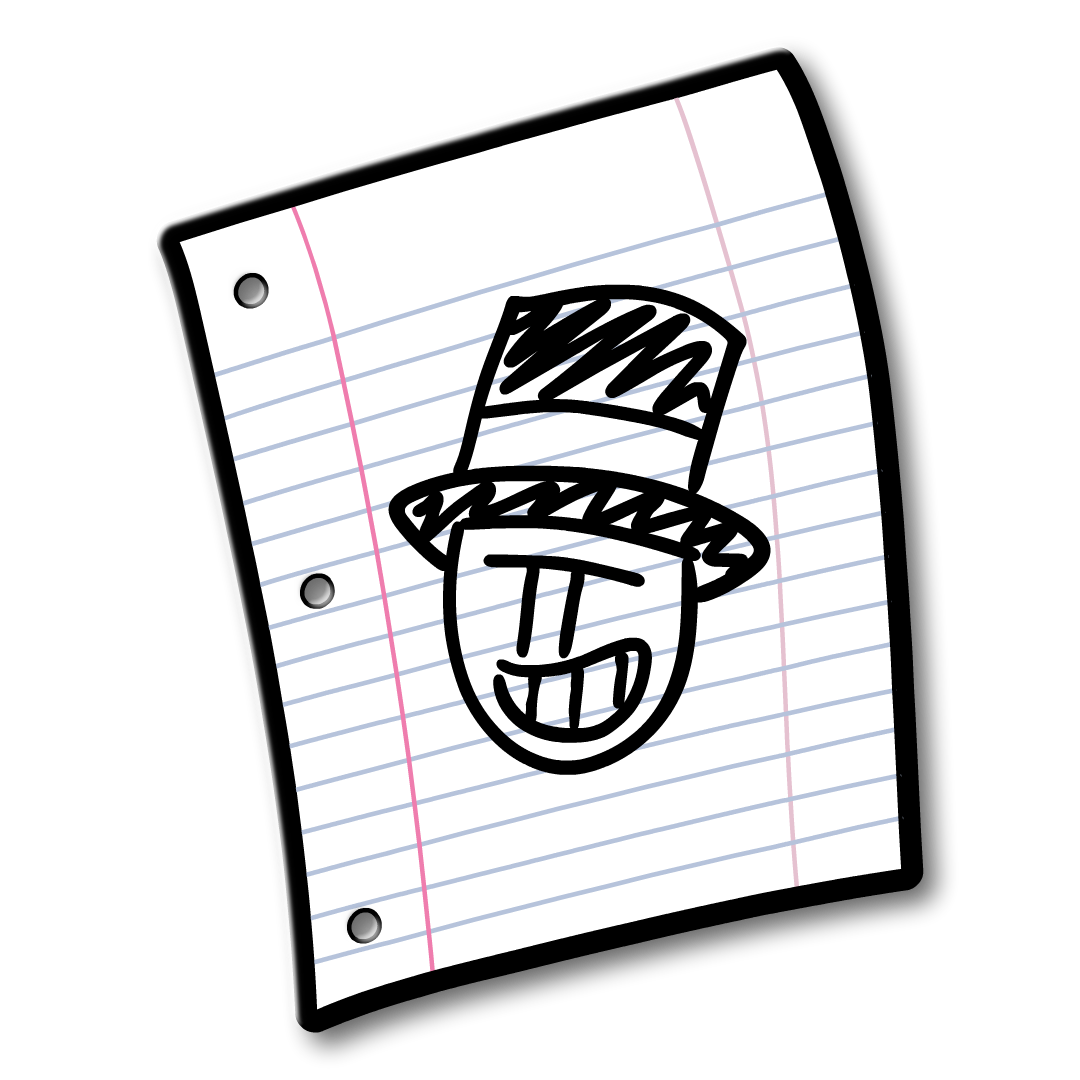
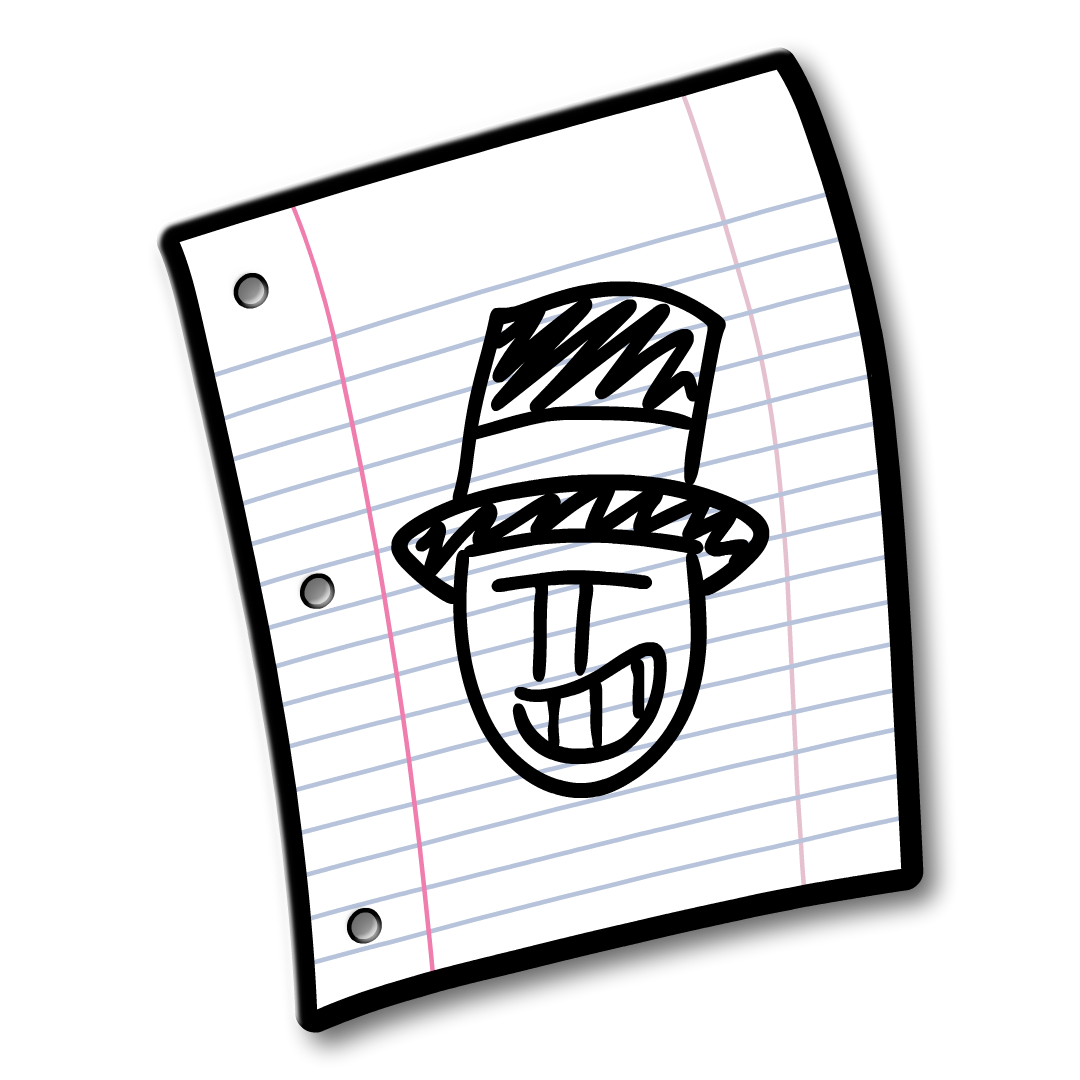
Fix bugs with default project input/previews changing and crashing backend on validation fail

Changed region(s): [[0.3361, 0.1222, 0.7639, 0.825], [0.6111, 0.0917, 0.6417, 0.1222]]

diff --git a/frontend/src/pages/AdminPanel.jsx b/frontend/src/pages/AdminPanel.jsx
@@ -149,7 +149,7 @@ const AdminPanel = () => {
     let file = e.target.files[0];
     if (!file) file = null;
     setProjectInput({...projectInput, gallery: projectInput.gallery.with(index, file)});
-    const galleryPreviews = projectFilePreviews.gallery || [];
+    const galleryPreviews = [...projectFilePreviews.gallery] || [];
     galleryPreviews[index] = file ? URL.createObjectURL(file) : null;
     setProjectFilePreviews({...projectFilePreviews, gallery: galleryPreviews});
   }
@@ -158,15 +158,17 @@ const AdminPanel = () => {
     let file = e.target.files[0];
     if (!file) file = null;
     setProjectInput(prev => {return {...prev, content: prev.content.length > 0 ? prev.content.with(index, file) : [file]}});
-    if (!contentPreviews) contentPreviews = projectFilePreviews.content || [];
-    contentPreviews[index] = file ? URL.createObjectURL(file) : null;
-    setProjectFilePreviews({...projectFilePreviews, content: contentPreviews});
+    setProjectFilePreviews(prev => {
+      if (!contentPreviews) contentPreviews = [...prev.content] || [];
+      contentPreviews[index] = file ? URL.createObjectURL(file) : null;
+      return {...prev, content: contentPreviews};
+    });
     return contentPreviews;
   }
 
   const onMultipleContentUpload = (e, index) => {
     if (e.target.files.length > 1) {
-      let contentPreviews = projectFilePreviews.content || [];
+      let contentPreviews = [...projectFilePreviews.content] || [];
       Object.entries(e.target.files).forEach(([i, file]) => {
         if (i == 0) {
           contentPreviews = onContentUpload(e, index);

diff --git a/backend/routes/projects.js b/backend/routes/projects.js
@@ -53,7 +53,7 @@ router.post("/", auth, formidable(), async (req, res) => {
     newProject.thumbnail = fileURLs.thumbnail;
     newProject.gallery = fileURLs.gallery;
     newProject.content = fileURLs.content;
-    newProject.save();
+    await newProject.save();
     res.status(201).json({Project: newProject});
   } catch (err) {
     console.log(err);
@@ -124,7 +124,7 @@ router.patch("/:id", auth, formidable(), async (req, res) => {
       project.thumbnail = fileURLs.thumbnail;
       project.gallery = fileURLs.gallery;
       project.content = fileURLs.content;
-      const updatedProject = project.save();
+      const updatedProject = await project.save();
       res.status(200).json({updatedProject});
     } catch (err) {
       res.status(500).json({error: err});

diff --git a/frontend/src/constants/projectGroups.js b/frontend/src/constants/projectGroups.js
@@ -57,7 +57,7 @@ const projectGroups = {
   },
   favorites: {
     name: "Will's Favorites",
-    icon: ArtIcon,
+    icon: ProgramsIcon,
   },
 }
 